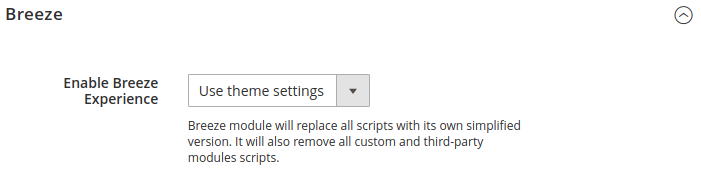
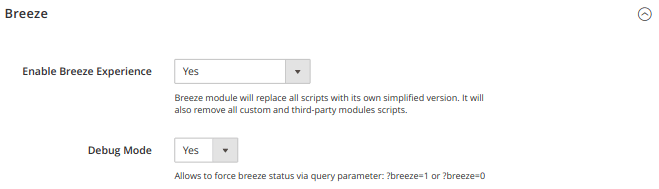
Breeze: update config screenshot

diff --git a/m2/extensions/breeze/configuration.md b/m2/extensions/breeze/configuration.md
@@ -14,9 +14,10 @@ page:
 
 ![General section](/images/m2/breeze/configuration.png)
 
-Option                   | Description
--------------------------|------------
-Enable Breeze Experience | Enable/Disable Breeze frontend
+Option                      | Description
+----------------------------|------------
+Enable Breeze Experience    | Enable/Disable Breeze frontend
+Debug Mode                  | When enabled, allows to force breeze status via query parameter.
 
 #### Next up
 {:.no_toc}

diff --git a/m2/extensions/breeze/changelog.md b/m2/extensions/breeze/changelog.md
@@ -41,6 +41,7 @@ category: Breeze
  -  Component inheritance implemented.
  -  Small fixes in js components.
  -  $.async function added.
+ -  Ability to force breeze status via [query parameter](/m2/extensions/breeze/configuration/).
  -  Stability improvements.
 
 ### Version 1.0.3
